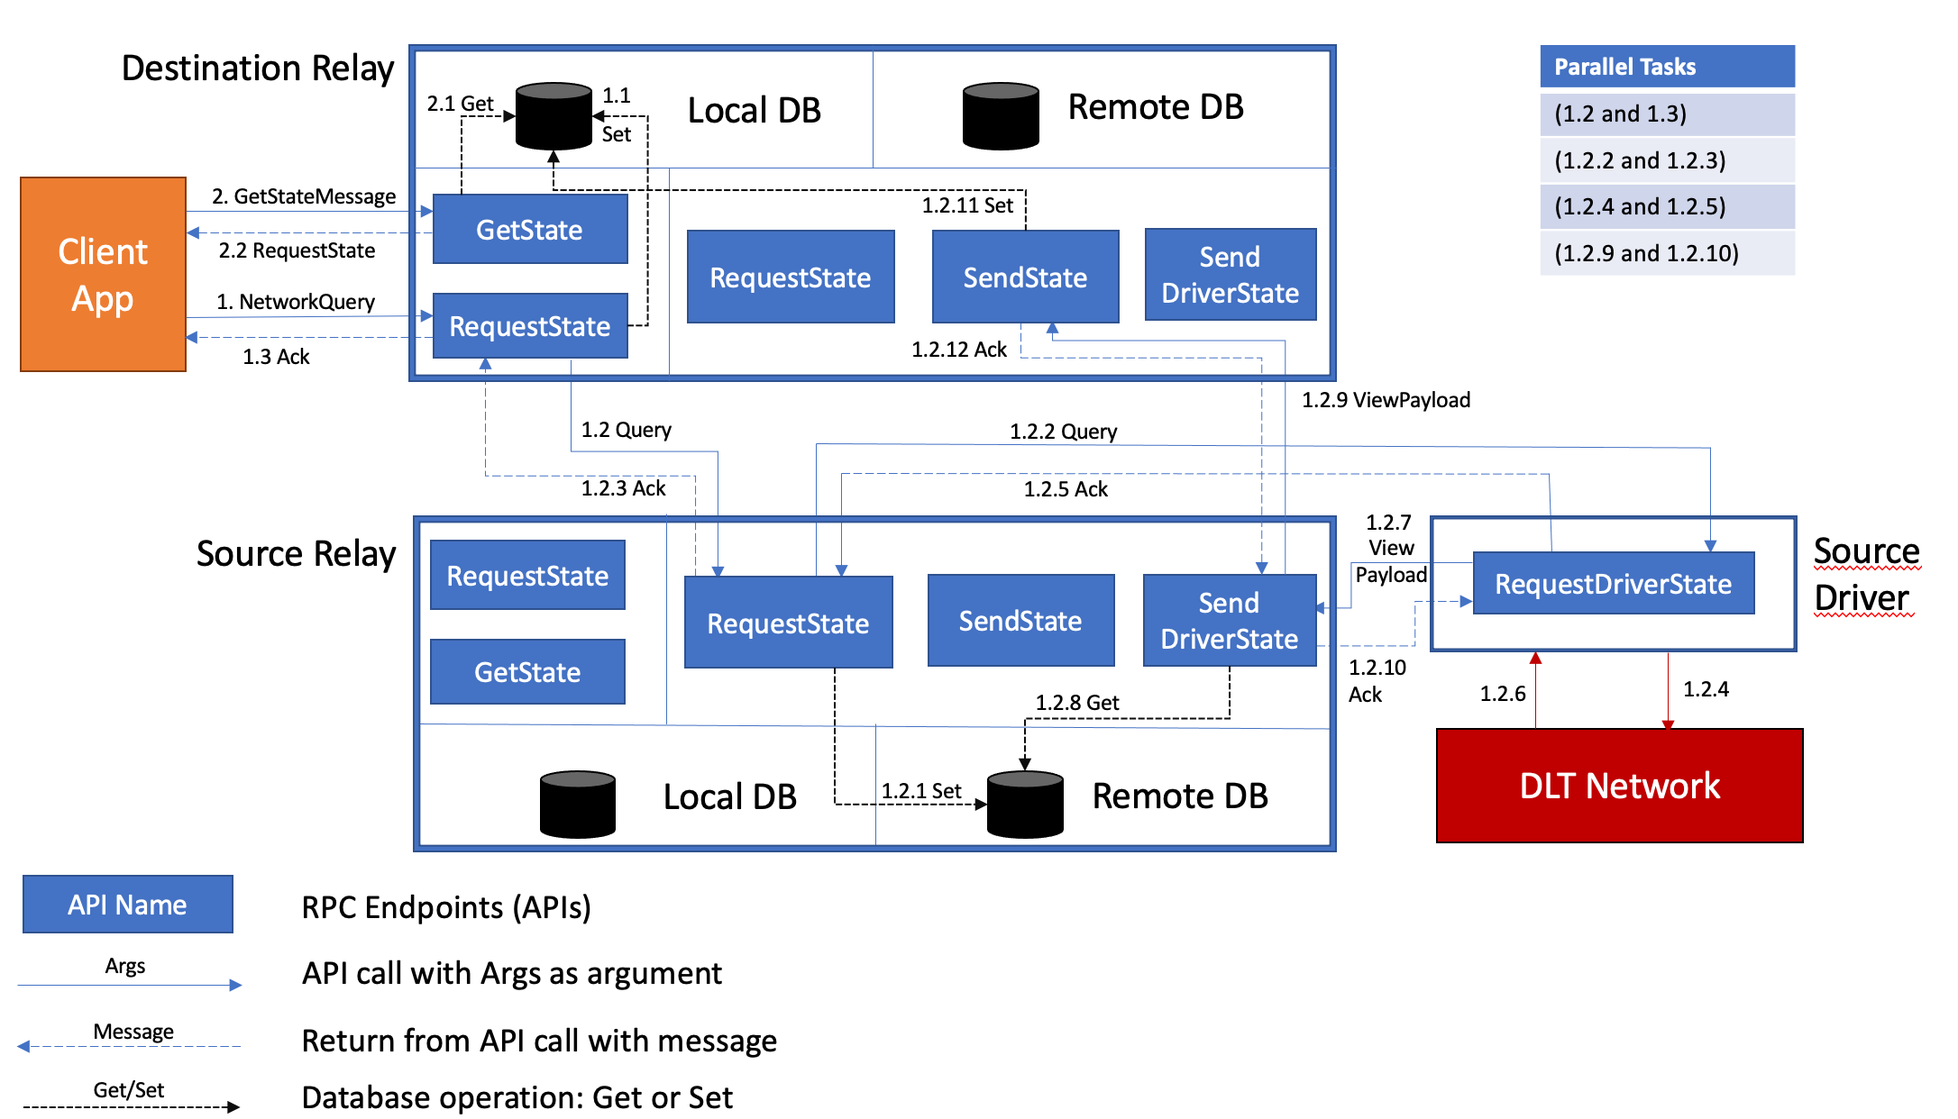
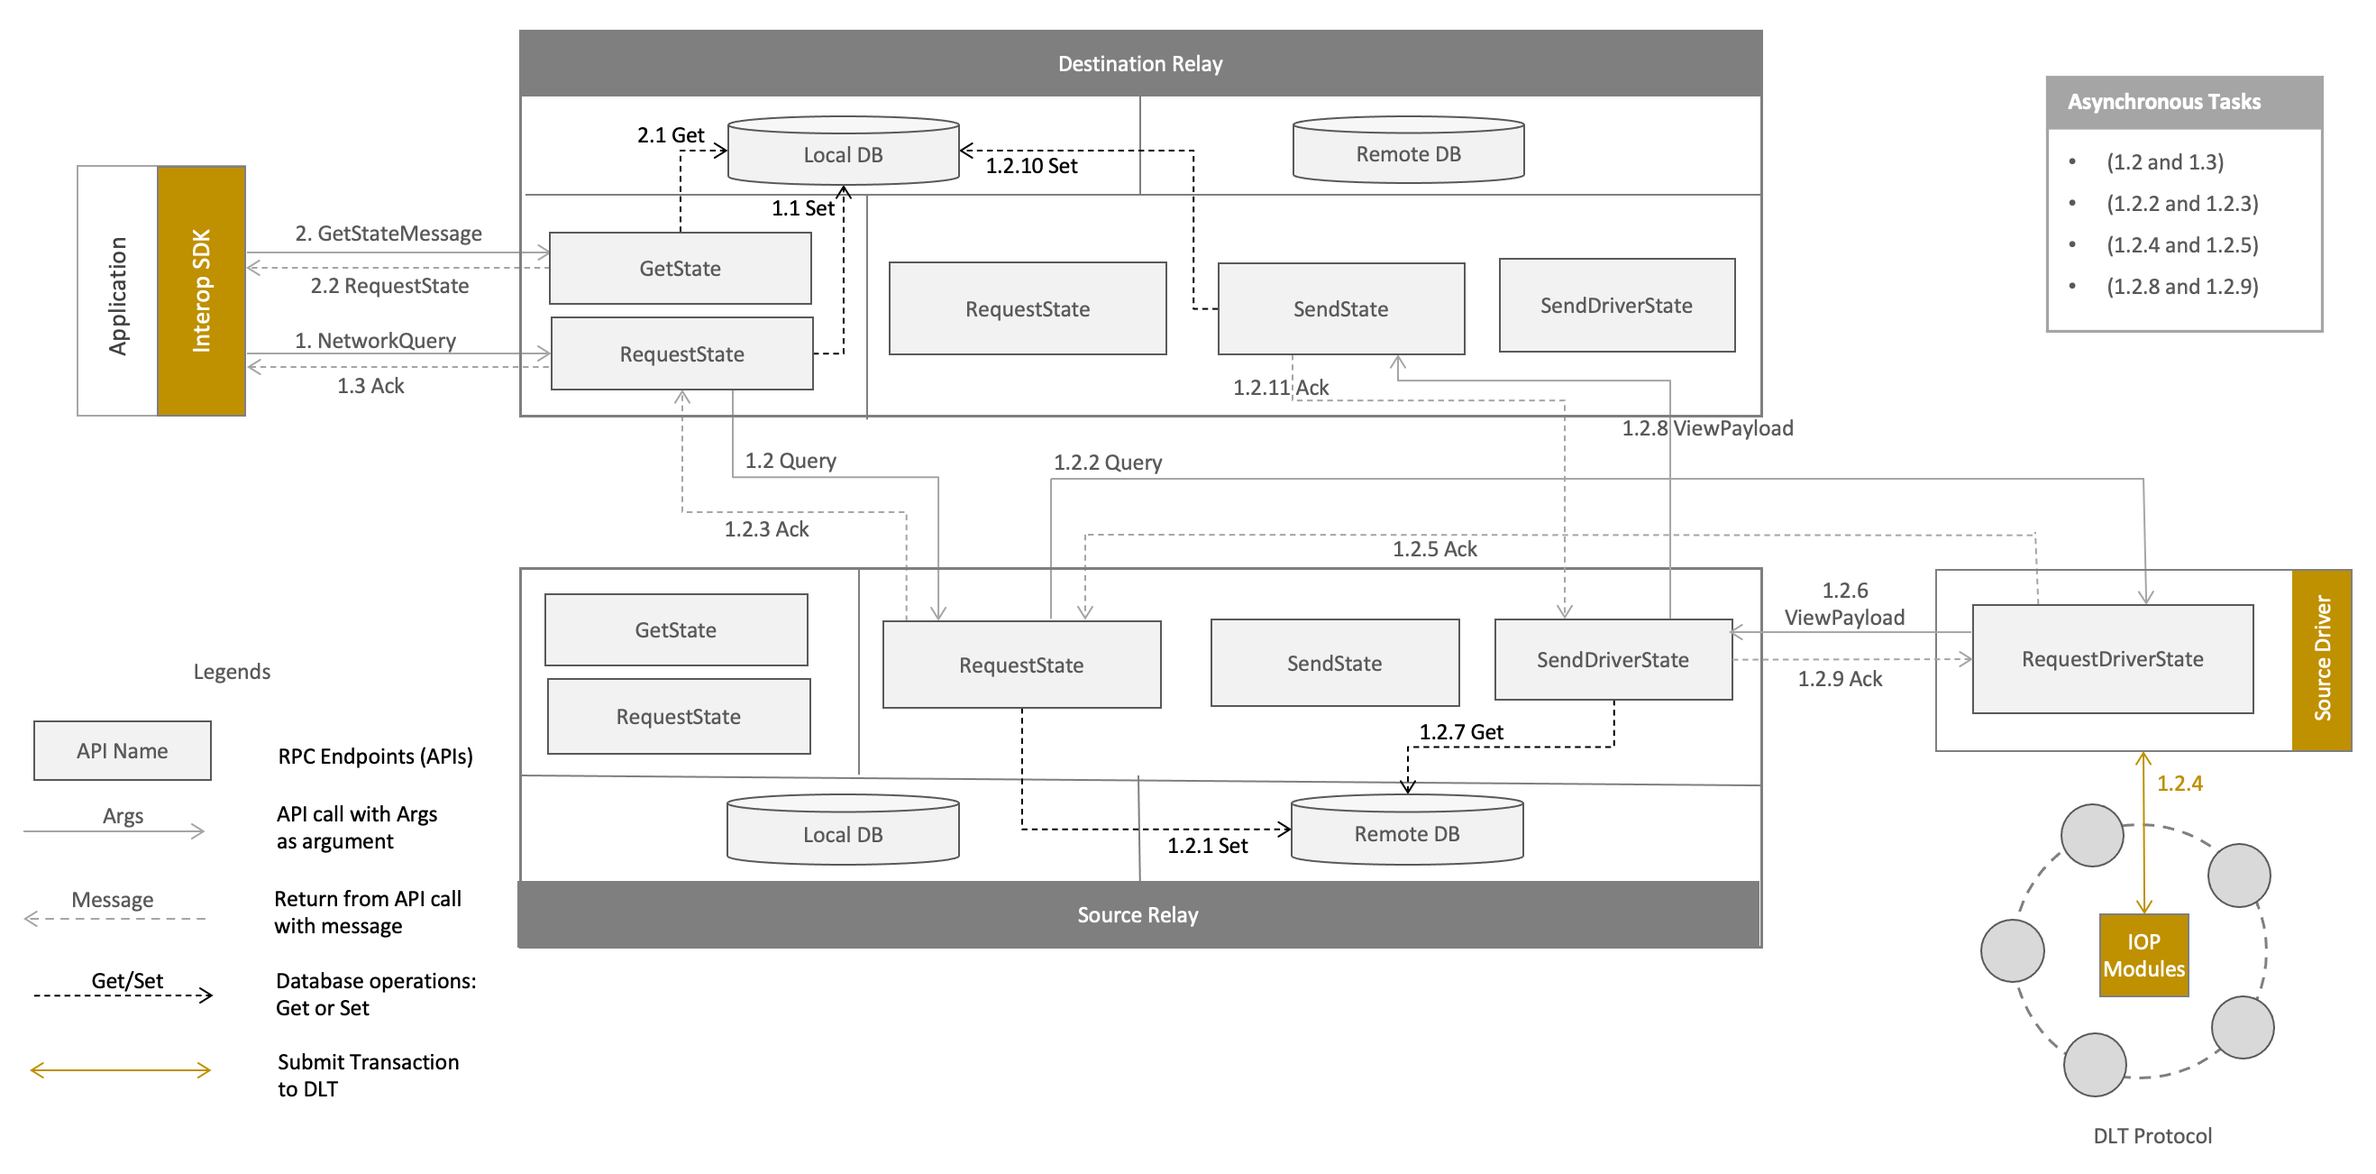
moved relay-flow to protocol; and diagram updated; renamed files under rfcs/formats/views/

diff --git a/rfcs/models/infrastructure/relays.md b/rfcs/models/infrastructure/relays.md
@@ -78,7 +78,7 @@ Here we list API function specs exposed to [application clients](#api-for-applic
 ### API for Application Client
 
 - **RequestState(networks.networks.NetworkQuery): returns common.ack.Ack**
-    This endpoint is for a client application (i.e., above the contracts) running in a DLT network, to [request remote state](../../protocols/data-sharing/generic.md) via local relay. Since this request is asynchronous w.r.t the network, the request info/state machine is stored in a database on the requesting relay indexed via uniquely generated random id called `request_id`. This `request_id` is used to uniquely identify this query request in all the other endpoints' arguments or return messages. The local relay then sends the query to the remote relay via an API available for relay-relay communication (explained below).  This API takes a message of type [NetworkQuery](../../formats/communication/relay.md#networkquery) as argument, and returns [Ack](../../formats/views/request.md#ack) message. The local relays returns positive [Ack](../../formats/views/request.md#ack) to the client application when query is sent successfully to the remote relay, else a negative Ack with error message. On positive `Ack` client application can poll for the response by calling `GetState` API of the relay.
+    This endpoint is for a client application (i.e., above the contracts) running in a DLT network, to request remote state via local relay, initiating [data sharing protocol]((../../protocols/data-sharing/generic.md#relay-flow) session. Since this request is asynchronous w.r.t the network, the request info/state machine is stored in a database on the requesting relay indexed via uniquely generated random id called `request_id`. This `request_id` is used to uniquely identify this query request in all the other endpoints' arguments or return messages. The local relay then sends the query to the remote relay via an API available for relay-relay communication (explained below).  This API takes a message of type [NetworkQuery](../../formats/communication/relay.md#networkquery) as argument, and returns [Ack](../../formats/views/request.md#ack) message. The local relays returns positive [Ack](../../formats/views/request.md#ack) to the client application when query is sent successfully to the remote relay, else a negative Ack with error message. On positive `Ack` client application can poll for the response by calling `GetState` API of the relay.
     
 - **GetState(networks.networks.GetStateMessage): returns common.state.RequestState**
     This endpoint is used by client application for polling the local relay to get the response to the query by using `request_id` returned in positive [Ack](../../formats/views/request.md#ack) by `RequestState` API (called by the same client earlier initiating data sharing protocol). The local relay fetches the database state based on provided `request_id` and prepares the response. It takes a message of type [GetStateMessage](../../formats/communication/relay.md#getstatemessage) as argument, and returns [RequestState](../../formats/views/request.md#requeststate) message. The `RequestState` can be in 4 states, indicated by `status` field, depending upon whether the local relay has received Ack from remote relay, or it is still pending; there is an error in the protocol or protocol is successfully completed and response view is available.
@@ -103,33 +103,6 @@ Here we list API function specs exposed to relays by the drivers. These are RPC 
 
 - **RequestDriverState(common.query.Query): returns (common.ack.Ack)**
     The remote relay sends a request to the driver, identified by the [view address](../../formats/views/addressing), with a query defining the data it wants to receive. This is where driver unpacks the view address, makes a call to the requested contract using given arguments, and collects the response along with the proof, packages them into a DLT-specific view message, and then encapsulating it to a DLT-neutral view message. This final message is then sent back to remote relay using above relay's API (SendDriverState). It takes a message of type takes [Query](../../formats/views/request.md#query) as argument, and returns [Ack](../../formats/views/request.md#ack).
-
-## Flow
-
-<img src="../../resources/images/relay-flow.png" width=100%>
-
-The end-to-end flow is explained in figure above. The steps numbers from figure are illustrated below:
-
-1. Client prepares `NetworkQuery` and sends it to Destination Relay via `RequestState` (Client App) API.
-  * **1.1:** Destination relay (inside Client’s `RequestState`) generates unique `request_id` for the query and stores the `RequestState` message with current status as `PENDING_ACK` in local database at key `request_id`.
-  * **1.2:** Destination relay (inside Client’s `RequestState`) prepares `Query` and spawns a thread to send the Query to source relay via `RequestState` (Relay Service) API. When destination relay will receive `Ack` from source relay, it will update the status of `RequestState` as `PENDING` in database at key `request_id`
-  * **1.3:** Destination relay (inside Client’s `RequestState`) returns Ack to the client at the end of this API (happens asynchronously with step **1.2**).
-    * **1.2.1:** Source relay (inside Relay’s `RequestState`) upon receiving the `Query`, stores it in remote database at key `request_id`.
-    * **1.2.2:** Source relay (inside Relay’s `RequestState`) then spawns a thread to send `Query` to the intended driver based on Query via `RequestDriverState` API exposed by the driver.
-    * **1.2.3:** Source relay (inside Relay’s `RequestState`) Returns `Ack` back to the destination relay (happens asynchronously with step **1.2.2**).
-    * **1.2.4:** Driver (inside `RequestDriverState`) based on `Query`, asynchronously spawns a thread that submits transaction to DLT network using [interoperation module](./interoperation-modules.md).
-    * **1.2.5:** Driver returns `Ack` back to the source relay (happens asynchronously with step **1.2.4**).
-    * **1.2.6:** On the thread spawned at step **1.2.4**, Driver obtains the response payload from `interoperation module`, creates a `View` payload based on DLT platform (e.g. [Fabric View](../../formats/views/views-fabric.md), [Corda View](../../formats/views/views-corda.md) or [Besu View](../../formats/views/views-besu.md) ), and then encapsulate it to DLT-neutral [View](../../formats/views/view-definition.md) along with meta-data.
-    * **1.2.7:** Driver (inside `RequestDriverState`) then prepares and sends the `ViewPayload` to the source relay via `SendDriverState` API.
-    * **1.2.8:** Source relay (inside `SendDriverState`) then fetches the `Query` from remote database using `request_id` from `ViewPayload`.
-    * **1.2.9:** Source relay (inside `SendDriverState`) spawns a thread to send the `ViewPayload` back to the destination relay via `SendState` API.
-    * **1.2.10:** Source relay (inside `SendDriverState`) returns `Ack` back to the driver (happens asynchronously with step **1.2.9**).
-    * **1.2.11:** Destination relay (inside `SendState`) stores the `RequestState` message with updated `state` (storing view) and `status` as `COMPLETED`, in the local database at key `request_id`.
-    * **1.2.12:** Destination relay (inside `SendState`) returns `Ack` back to the source relay.
-2. Client polls for response from Destination Relay via `GetState` API, passing `GetStateMessage` containing `request_id`.
-  * **2.1:** Destination relay fetches the `RequestState` message stored in local database at key `request_id`.
-  * **2.2:** Destination relay returns the `RequestState` obtained in step **2.1** to the client.
-
 
 ## Deployment Models and Considerations
 

diff --git a/rfcs/formats/views/request.md b/rfcs/formats/views/request.md
@@ -48,7 +48,7 @@ message ViewPayload {
 }
 ```
 
-The `state` either contains a `view` field (which is an instance of [View](./view-definition.md), if the view/data sharing request was successful), otherwise it consists of an error report.
+The `state` either contains a `view` field (which is an instance of [View](./definition.md), if the view/data sharing request was successful), otherwise it consists of an error report.
 
 ### RequestState
 
@@ -72,14 +72,19 @@ message RequestState {
 ```
 
 This payload is used for the communication between the destination relay and the client application. When client polls the destination relay for response for the query identified by `request_id`, using [GetState](../../models/infrastructure/relays.md#api-for-application-client) API, passing [GetStateMessage](../communication/relay.md#getstatemessage) as an argument, which contains the `request_id`, the relay returns above payload, which consists of `request_id` (uniquely identifying the query for which the client polled for) and the status of request i.e. one of the following enumerations:
-    * `PENDING_ACK`: [ACK](#ack) pending from the remote relay to the [RequestState](../../models/infrastructure/relays.md#api-for-other-relays) API call.
-    * `PENDING`: ACK recieved but waiting the response data from remote relay.
+    * `PENDING_ACK`: [Ack](#ack) pending from the remote relay to the [RequestState](../../models/infrastructure/relays.md#api-for-other-relays) API call.
+    * `PENDING`: Ack recieved but waiting the response data from remote relay.
     * `ERROR`: signifying error occurred during remote query, and state is the error message.
-    * `COMPLETED`: signifying successful completion, and state is the response view, that is an instance of `View` defined [here](./view-definition.md).
+    * `COMPLETED`: signifying successful completion, and state is the response view, that is an instance of `View` defined [here](./definition.md).
 
 ## Ack
 
-This message is used for acknowledgement purpose in all gRPC endpoints except `GetState`. The `request_id` field is used to uniquely track/identify the query for which is Ack is produced for. The `request_id` is same as the one generated by destination relay on receiving the query from client application. The same value for `request_id` is referred in all the protobuf messages (defined above) in a protocol session to uniquely track/identify the query request.
+In a [data sharing protocol](../../protocols/data-sharing/generic.md) session, `Ack` is sent in response to the following:
+* Client app sending `NetworkQuery` to destination relay.
+* Relay sending `Query` to source relay.
+* Source relay sending `Query` to driver.
+* Driver sending `ViewPayload` to the source relay.
+* Source relay sending `ViewPayload` to the destination relay.
 
 ```protobuf
 message Ack {
@@ -95,5 +100,5 @@ message Ack {
 }
 ```
 
-Ack `status` is `OK` for positive acknowledgement. For negative acknowledgement, ack `status` is `ERROR`, and an error message can also be passed in the `message` field.
+Ack `status` is `OK` for positive acknowledgement. For negative acknowledgement, Ack `status` is `ERROR`, and an error message can also be passed in the `message` field. The `request_id` field is used to uniquely track/identify the query for which is Ack is produced for. The `request_id` is same as the one generated by destination relay on receiving the query from client application. The same value for `request_id` is referred in all the protobuf messages (defined above) in a protocol session to uniquely track/identify the query request.
   

diff --git a/rfcs/protocols/data-sharing/generic.md b/rfcs/protocols/data-sharing/generic.md
@@ -43,6 +43,32 @@ This is a classic two-step request~response interaction, so it uses the predefin
 
 \*\* Should this state diagram include validation of messages?
 
+
+## Relay Flow
+
+<img src="../../resources/images/relay-flow.png" width=100%>
+
+The end-to-end flow is explained in figure above. The steps numbers from figure are illustrated below:
+
+1. Client prepares `NetworkQuery` and sends it to Destination Relay via `RequestState` (Client App) API.
+  * **1.1:** Destination relay (inside Client’s `RequestState`) generates unique `request_id` for the query and stores the `RequestState` message with current status as `PENDING_ACK` in local database at key `request_id`.
+  * **1.2:** Destination relay (inside Client’s `RequestState`) prepares `Query` and spawns a thread to send the Query to source relay via `RequestState` (Relay Service) API. When destination relay will receive `Ack` from source relay, it will update the status of `RequestState` as `PENDING` in database at key `request_id`
+  * **1.3:** Destination relay (inside Client’s `RequestState`) returns Ack to the client at the end of this API (happens asynchronously with step **1.2**).
+    * **1.2.1:** Source relay (inside Relay’s `RequestState`) upon receiving the `Query`, stores it in remote database at key `request_id`.
+    * **1.2.2:** Source relay (inside Relay’s `RequestState`) then spawns a thread to send `Query` to the intended driver based on Query via `RequestDriverState` API exposed by the driver.
+    * **1.2.3:** Source relay (inside Relay’s `RequestState`) returns `Ack` back to the destination relay (happens asynchronously with step **1.2.2**).
+    * **1.2.4:** Driver (inside `RequestDriverState`) based on `Query`, asynchronously spawns a thread that submits transaction to DLT network using [interoperation module](./interoperation-modules.md). The response payload from `interoperation module` is received by the driver, then it creates a `View` payload based on DLT platform (e.g. [Fabric View](../../formats/views/fabric.md), [Corda View](../../formats/views/corda.md) or [Besu View](../../formats/views/besu.md) ), and then encapsulate it to DLT-neutral [View](../../formats/views/definition.md) along with meta-data. 
+    * **1.2.5:** Driver returns `Ack` back to the source relay (happens asynchronously with step **1.2.4**).
+    * **1.2.6:** Driver (inside `RequestDriverState`) and then prepares and sends the `ViewPayload` to the source relay via `SendDriverState` API.
+    * **1.2.7:** Source relay (inside `SendDriverState`) then fetches the `Query` from remote database using `request_id` from `ViewPayload`.
+    * **1.2.8:** Source relay (inside `SendDriverState`) spawns a thread to send the `ViewPayload` back to the destination relay via `SendState` API.
+    * **1.2.9:** Source relay (inside `SendDriverState`) returns `Ack` back to the driver (happens asynchronously with step **1.2.9**).
+    * **1.2.10:** Destination relay (inside `SendState`) stores the `RequestState` message with updated `state` (storing view) and `status` as `COMPLETED`, in the local database at key `request_id`.
+    * **1.2.11:** Destination relay (inside `SendState`) returns `Ack` back to the source relay.
+2. Client polls for response from Destination Relay via `GetState` API, passing `GetStateMessage` containing `request_id`.
+  * **2.1:** Destination relay fetches the `RequestState` message stored in local database at key `request_id`.
+  * **2.2:** Destination relay returns the `RequestState` obtained in step **2.1** to the client.
+
 ## Messages
 
 ### `query` message type

diff --git a/rfcs/README.md b/rfcs/README.md
@@ -60,11 +60,11 @@ The RFC numbering convention is: `<type>:<id>`. The list of types (`<type>`) is 
 | 02-015 | Transaction Invocation           | Protocol | [Draft](./protocols/contract-invocation/invocation.md)          |
 | 02-016 | Event Bus                        | Protocol | [Draft](./protocols/events/event-bus.md)                        |
 | 03-001 | View Address                     | Format   | [Proposed](./formats/views/addressing.md)                       |
-| 03-002 | Generic View                     | Format   | [Proposed](./formats/views/view-definition.md)                  |
-| 03-003 | Fabric View                      | Format   | [Proposed](./formats/views/views-fabric.md)                     |
-| 03-004 | Corda View                       | Format   | [Proposed](./formats/views/views-corda.md)                      |
-| 03-005 | Besu View                        | Format   | [Draft](./formats/views/views-besu.md)                          |
-| 03-006 | Ethereum View                    | Format   | [Draft](./formats/views/views-ethereum.md)                      |
+| 03-002 | Generic View                     | Format   | [Proposed](./formats/views/definition.md)                  |
+| 03-003 | Fabric View                      | Format   | [Proposed](./formats/views/fabric.md)                     |
+| 03-004 | Corda View                       | Format   | [Proposed](./formats/views/corda.md)                      |
+| 03-005 | Besu View                        | Format   | [Draft](./formats/views/besu.md)                          |
+| 03-006 | Ethereum View                    | Format   | [Draft](./formats/views/ethereum.md)                      |
 | 03-007 | View Request                     | Format   | [Proposed](./formats/views/request.md)                          |
 | 03-008 | Access Control Policy            | Format   | [Proposed](./formats/policies/access-control.md)                |
 | 03-009 | Proof Verification Policy        | Format   | [Proposed](./formats/policies/proof-verification.md)            |

diff --git a/rfcs/formats/views/addressing.md b/rfcs/formats/views/addressing.md
@@ -100,9 +100,9 @@ name = *HEXDIGIT ; hex-encoded ASCII string
 Because the function-spec and input-argument are allowed to contain special characters, the specification of the view-segment requires them to be hex-encoded.
 
 For a given DLT, we can be more specific about the definition of the view-segment, using knowledge of the ledger structure and smart contract interface. See the following links for details on how viewi-segment identifiers are constructed for the three DLTs that Weaver presently supports:
-* [Fabric View Address Encoding](./views-fabric.md)
-* [Corda View Address Encoding](./views-corda.md)
-* [Ethereum View Address Encoding](./views-ethereum.md)
+* [Fabric View Address Encoding](./fabric.md)
+* [Corda View Address Encoding](./corda.md)
+* [Ethereum View Address Encoding](./ethereum.md)
 The general specification of a view-segment is a non-blank alphanumeric string with optional separators (the list below in the below specification is suggestive and not exchaustive).
 
 ### Examples

diff --git a/rfcs/formats/views/corda.md b/rfcs/formats/views/corda.md
@@ -166,7 +166,7 @@ AliceNode;BobNode#QueryBillOfLadingByPurchaseOrderNumber:PO12345678
 
 The `view` returned from a Corda network in response to a request from an
 external network is represented as metadata and data, as described in the [view
-definition](/models/views.md#view-definition).
+definition](./definition.md).
 
 For the initial implementation of the interoperability CorDapp, the default proof
 returned by the Corda network will be notarization, and the default

diff --git a/rfcs/models/ledger/cryptographic-proofs.md b/rfcs/models/ledger/cryptographic-proofs.md
@@ -26,8 +26,8 @@ The format of the proof provided by each network needs to be as generic as possi
 
 The structure of the message is network dependant. For the details on the message structure for fabric and corda, refer to their view documentation:
 
-- [fabric](/formats/views-fabric.md)
-- [corda](/formats/views-corda.md)
+- [fabric](/formats/fabric.md)
+- [corda](/formats/corda.md)
 
 ## Examples
 
